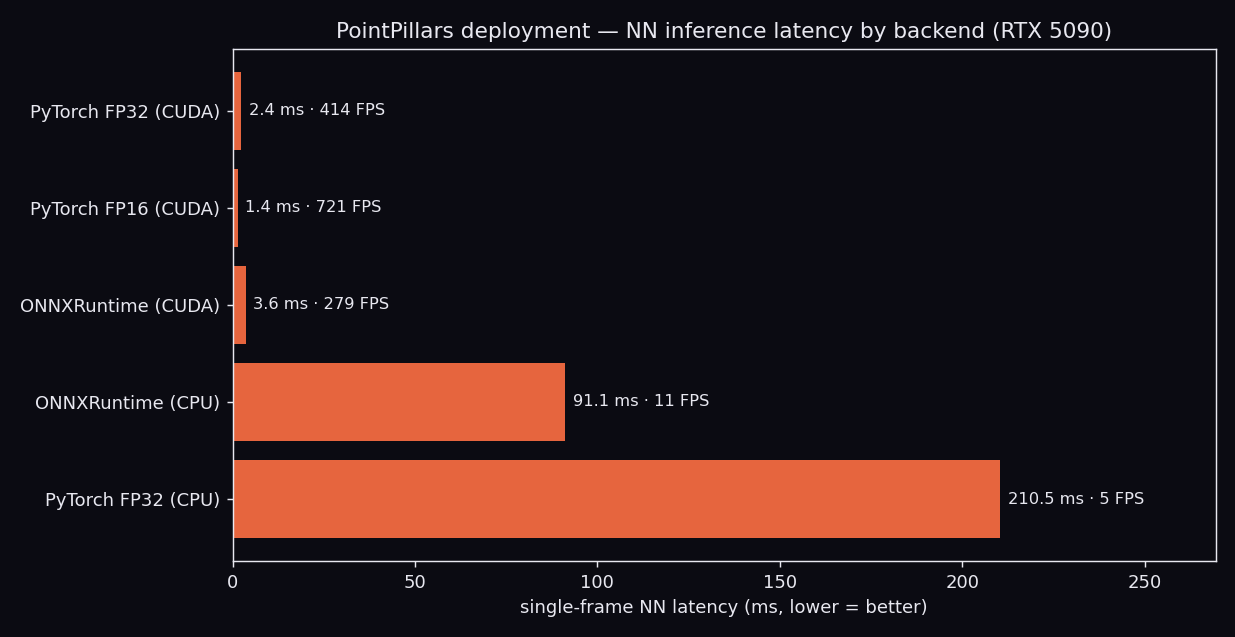
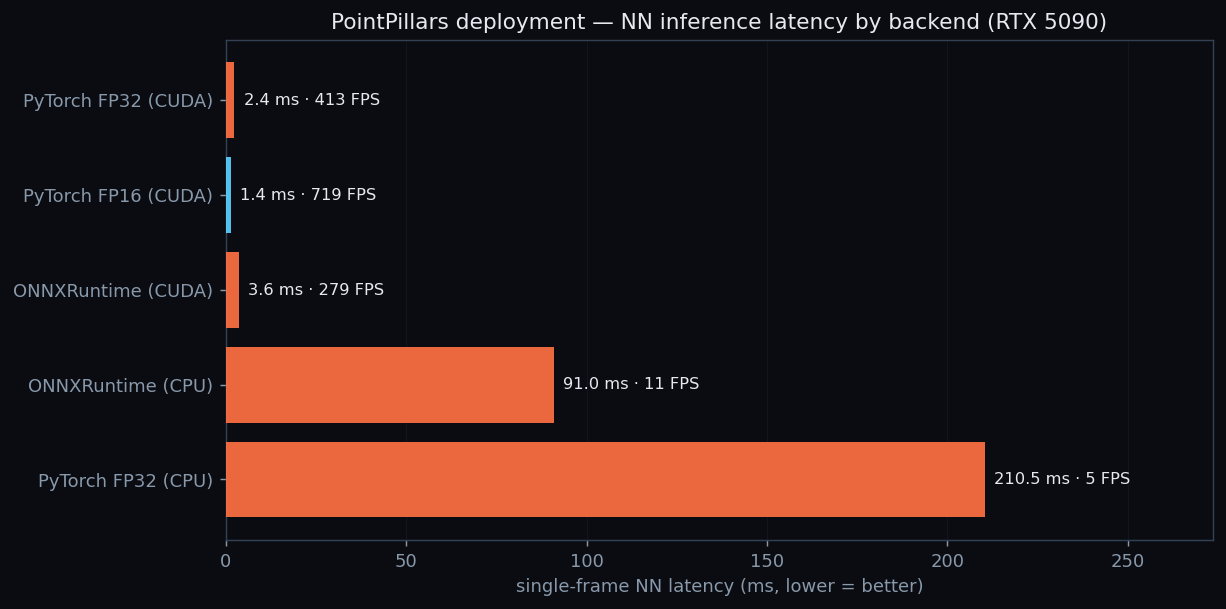
撤下 README 里 KITTI-360 展示(误差偏大)与 ROS2 节点图;det3d 检测/部署时延图统一深色 plotstyle 重画(去白边+竖向网格+高亮最优后端)

Changed region(s): [[0.0, 0.0, 0.9918, 0.9984], [0.4339, 0.5616, 0.5889, 0.6864]]

diff --git a/scripts/det3d_deploy.py b/scripts/det3d_deploy.py
@@ -157,24 +157,23 @@ def _plot(rows, out):
     import matplotlib
     matplotlib.use('Agg')
     import matplotlib.pyplot as plt
-    try:
-        from kitti_slam import plotstyle as ps
-        bg, fg, est = ps.BG, ps.FG, ps.EST
-    except Exception:
-        bg, fg, est = '#0b0b12', '#e8e8ea', '#39ff9e'
+    from kitti_slam import plotstyle as ps
     names = [n for n, _ in rows][::-1]
     ms = [m for _, m in rows][::-1]
-    fig, ax = plt.subplots(figsize=(9.5, 0.62 * len(rows) + 1.8))
-    fig.patch.set_facecolor(bg); ax.set_facecolor(bg)
-    bars = ax.barh(names, ms, color=est, alpha=0.9)
+    fig, ax = plt.subplots(figsize=(9.8, 0.62 * len(rows) + 1.9))
+    fig.patch.set_facecolor(ps.BG)
+    fastest = min(range(len(ms)), key=lambda i: ms[i])          # 最快后端高亮成青
+    colors = [ps.GT if i == fastest else ps.EST for i in range(len(ms))]
+    bars = ax.barh(names, ms, color=colors, alpha=0.92, zorder=3)
     for b, m in zip(bars, ms):
-        ax.text(b.get_width() + max(ms) * 0.01, b.get_y() + b.get_height() / 2,
-                f'{m:.1f} ms · {1e3/m:.0f} FPS', va='center', color=fg, fontsize=9)
-    ax.set_xlabel('single-frame NN latency (ms, lower = better)', color=fg)
-    ax.set_title('PointPillars deployment — NN inference latency by backend (RTX 5090)', color=fg)
-    ax.tick_params(colors=fg); [s.set_color(fg) for s in ax.spines.values()]
-    ax.set_xlim(0, max(ms) * 1.28)
-    fig.tight_layout(); fig.savefig(out, dpi=130, facecolor=bg)
+        ax.text(b.get_width() + max(ms) * 0.012, b.get_y() + b.get_height() / 2,
+                f'{m:.1f} ms · {1e3 / m:.0f} FPS', va='center', color=ps.FG, fontsize=9)
+    ax.set_xlabel('single-frame NN latency (ms, lower = better)')
+    ax.set_title('PointPillars deployment — NN inference latency by backend (RTX 5090)')
+    ax.set_xlim(0, max(ms) * 1.30)
+    ps.style_ax(ax)
+    ax.yaxis.grid(False)                                        # 横条图只留竖向网格更干净
+    ps.savefig(fig, out)
     print(f'  saved {out}')
 
 

diff --git a/scripts/det3d_vis_pred.py b/scripts/det3d_vis_pred.py
@@ -60,24 +60,27 @@ def main(argv=None):
     matplotlib.use('Agg')
     import matplotlib.pyplot as plt
     from matplotlib.patches import Polygon
+    from kitti_slam import plotstyle as ps
     m = (pts[:, 0] > 0) & (pts[:, 0] < 70) & (np.abs(pts[:, 1]) < 40)
     p = pts[m]
-    fig, ax = plt.subplots(figsize=(12, 10)); ax.set_facecolor('#0b0b12')
+    fig, ax = plt.subplots(figsize=(12, 10))
+    fig.patch.set_facecolor(ps.BG)
     ax.scatter(p[:, 0], p[:, 1], s=0.4, c=p[:, 2], cmap='turbo', linewidths=0, rasterized=True)
     for g in gt:
-        ax.add_patch(Polygon(_corners(g), closed=True, fill=False, ec='#ff3b3b', lw=2))
+        ax.add_patch(Polygon(_corners(g), closed=True, fill=False, ec='#ff5252', lw=2))
     for b, s in zip(boxes, scores):
         ax.add_patch(Polygon(_corners(b), closed=True, fill=False, ec='#39ff9e', lw=2))
         ax.text(b[0], b[1], f'{s:.2f}', color='#39ff9e', fontsize=8)
-    ax.plot([], [], color='#ff3b3b', label=f'GT ({len(gt)})')
+    ax.plot([], [], color='#ff5252', label=f'GT ({len(gt)})')
     ax.plot([], [], color='#39ff9e', label=f'pred ({len(boxes)})')
     ax.plot(0, 0, 'w^', ms=12)
-    ax.set_aspect('equal'); ax.legend(loc='upper right', labelcolor='w')
+    ax.set_aspect('equal')
     ax.set_xlabel('x [m]'); ax.set_ylabel('y [m]')
-    ax.set_title(f'PointPillars pred (green) vs GT (red) — frame {idx:06d}', color='w')
-    ax.tick_params(colors='#888'); [sp.set_color('w') for sp in ax.spines.values()]
+    ax.set_title(f'PointPillars pred (green) vs GT (red) — frame {idx:06d}')
+    ps.style_ax(ax)
+    ps.style_legend(ax.legend(loc='upper right'))
     out = ROOT / 'reports' / f'det3d_pred_{idx:06d}.png'
-    fig.tight_layout(); fig.savefig(out, dpi=130, facecolor='#0b0b12')
+    ps.savefig(fig, out)
     print('saved', out)
     return 0
 
